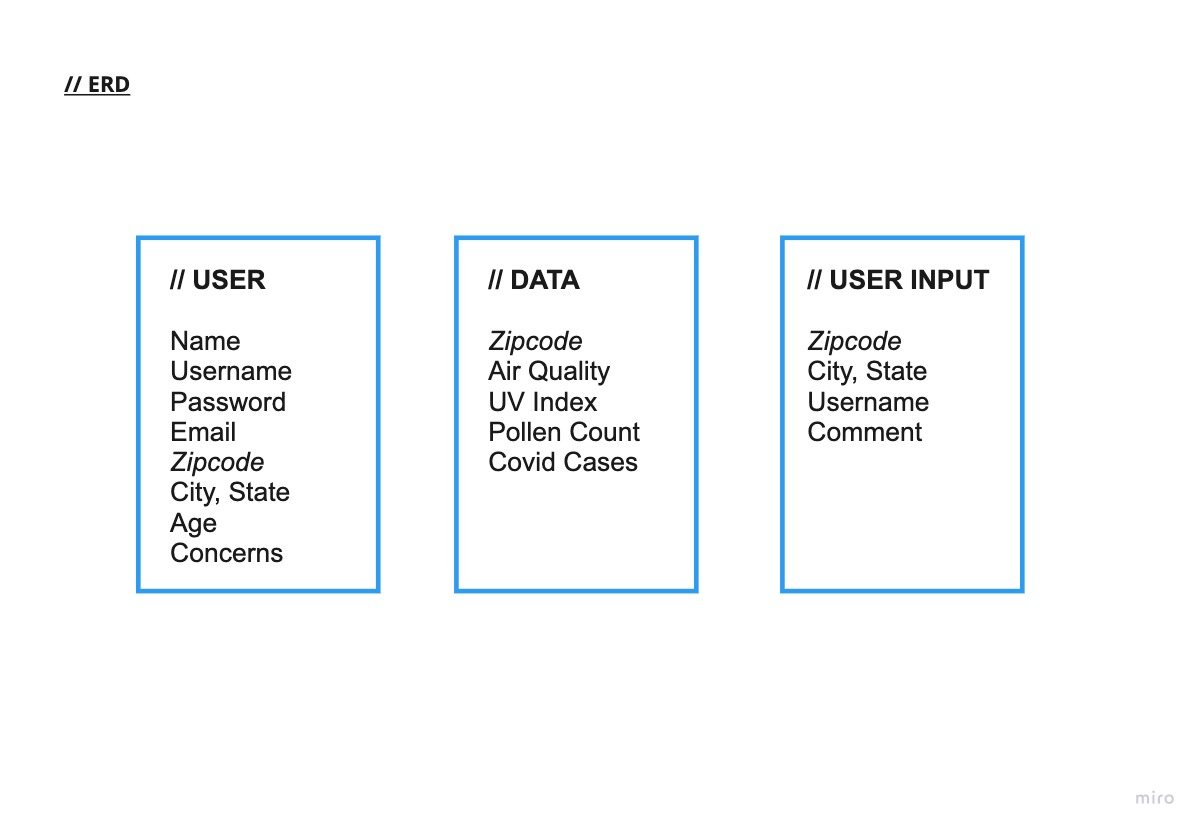
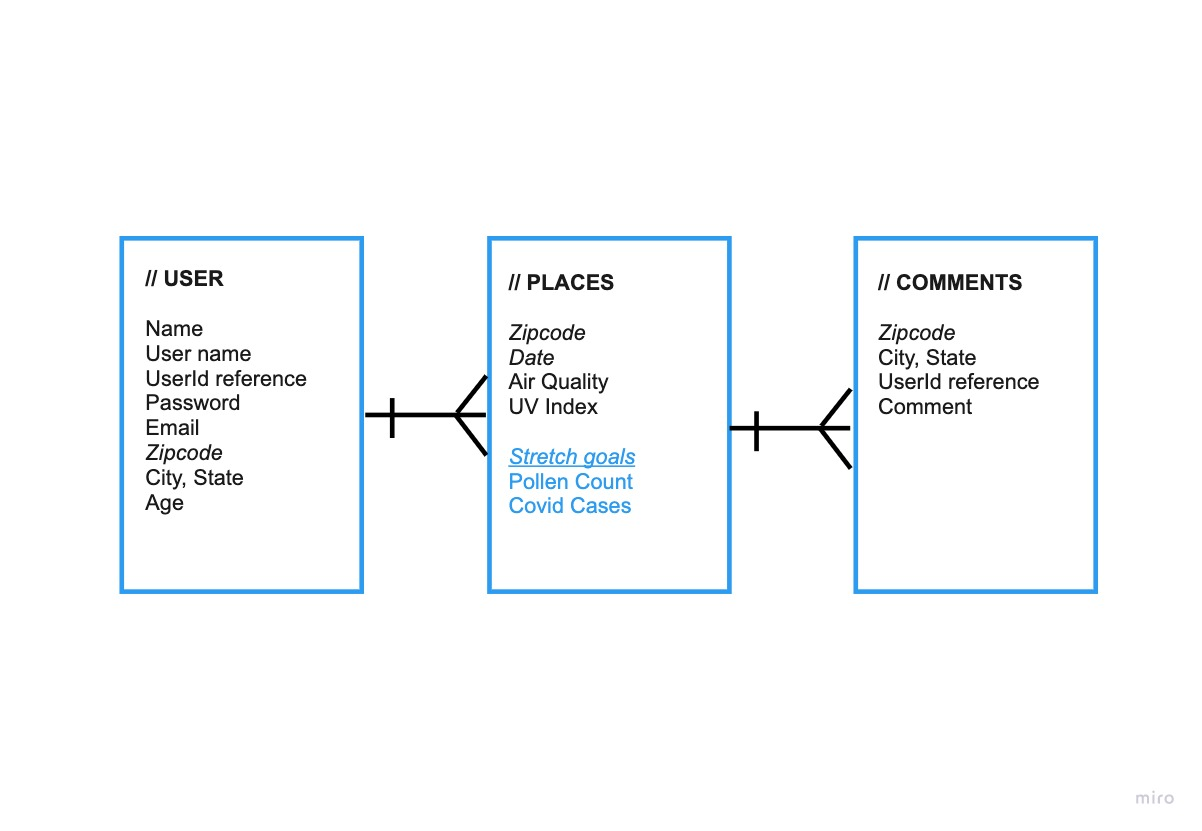
Update to ERD models

Changed region(s): [[0.0923, 0.2708, 0.9235, 0.722], [0.0616, 0.0903, 0.1231, 0.1203]]

diff --git a/README.md b/README.md
@@ -31,18 +31,22 @@ ___
 ### **GOAL STATEMENT**
 
 The “Is it safe to go Outside” app allows the users to search the air quality, UV index and Covid/ Influenza cases, which will allow users to take more control of how they interact with the enviroment and public. We will measure effectiveness by allowing users to comment by zip code of any environmental implications that could affect someone with health issues.
-___
-### **USER JOURNEY**
 
-![wire journey](readme-images/userjourney.jpg)
+___
+### **ENTITY-RELATIONSHIP DIAGRAM**
+
+![models](readme-images/erd.jpg)
+
 ___
 ### **WIREFRAMES**
 
 ![wire frames](readme-images/wireframes.jpg)
-___
-### **ERD - Models**
 
-![models](readme-images/erd.jpg)
+___
+### **USER JOURNEY**
+
+![wire journey](readme-images/userjourney.jpg)
+
 
 
 
